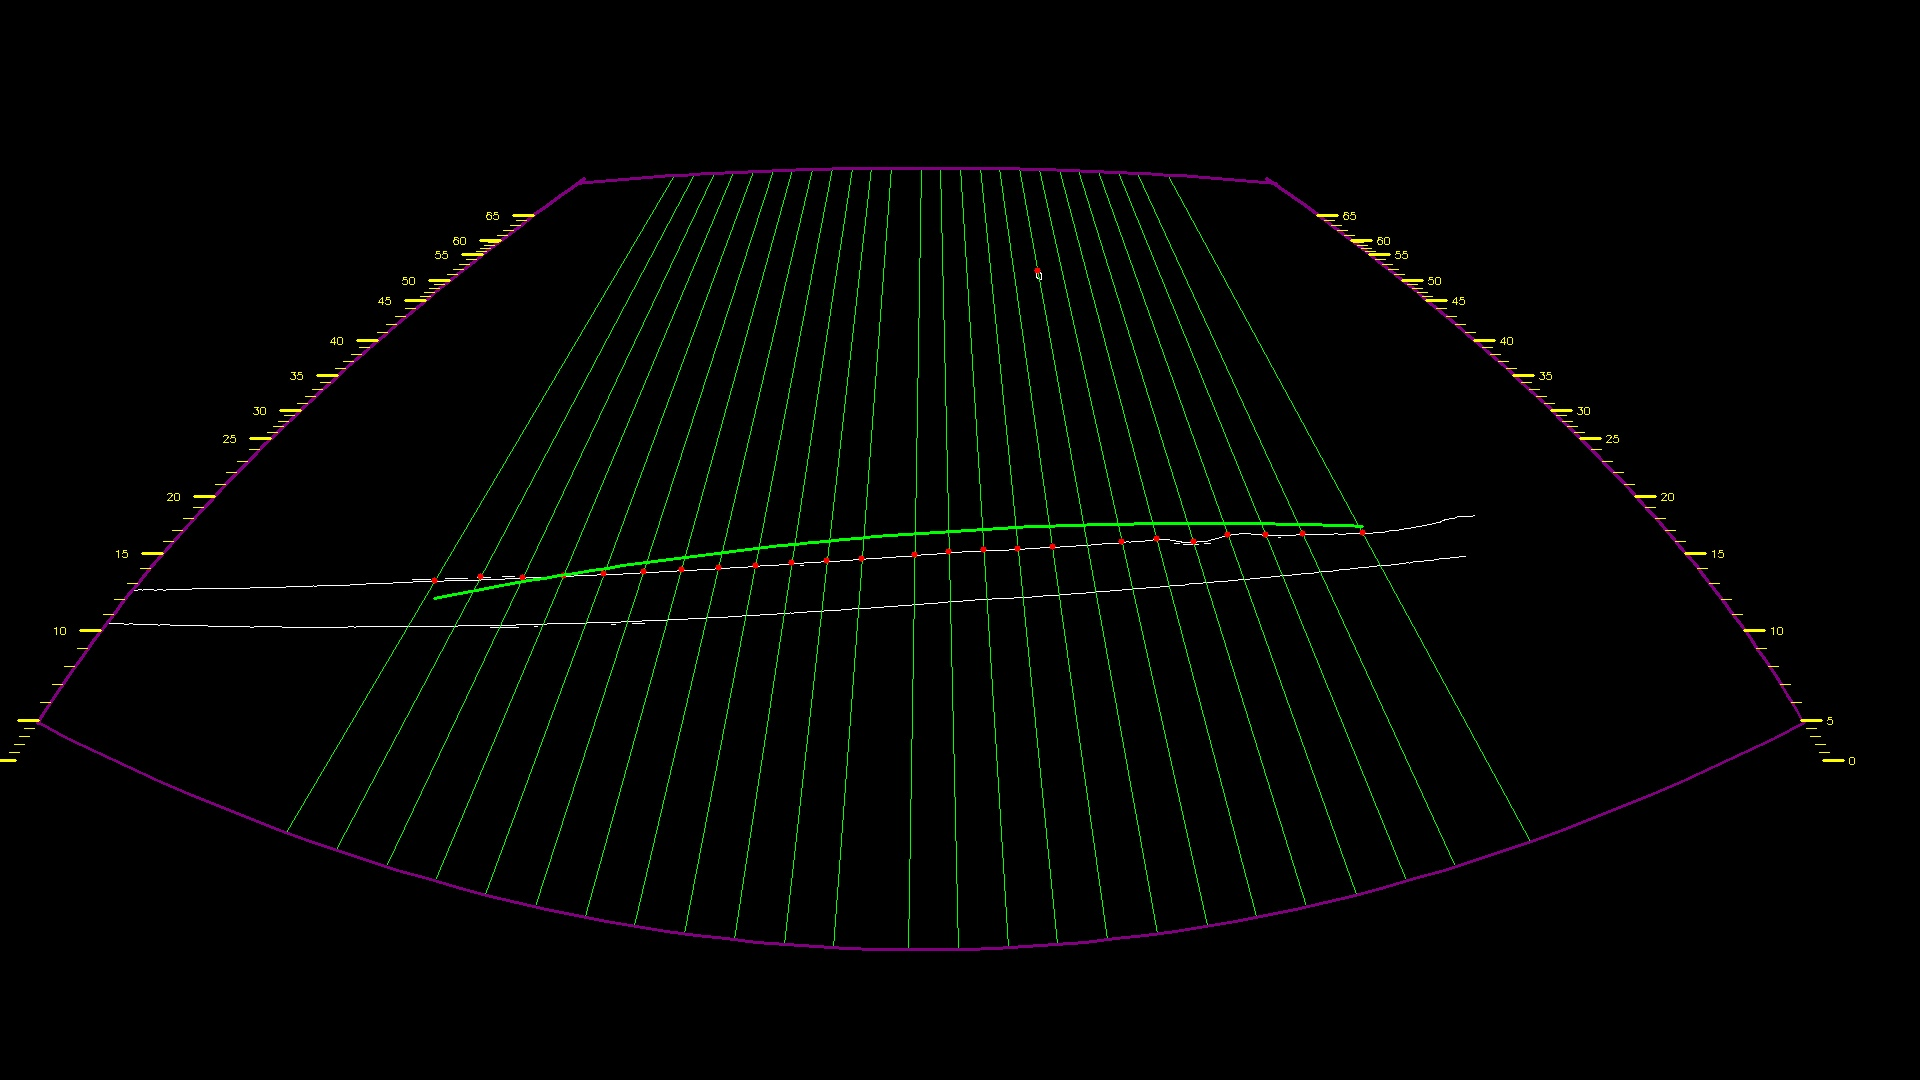
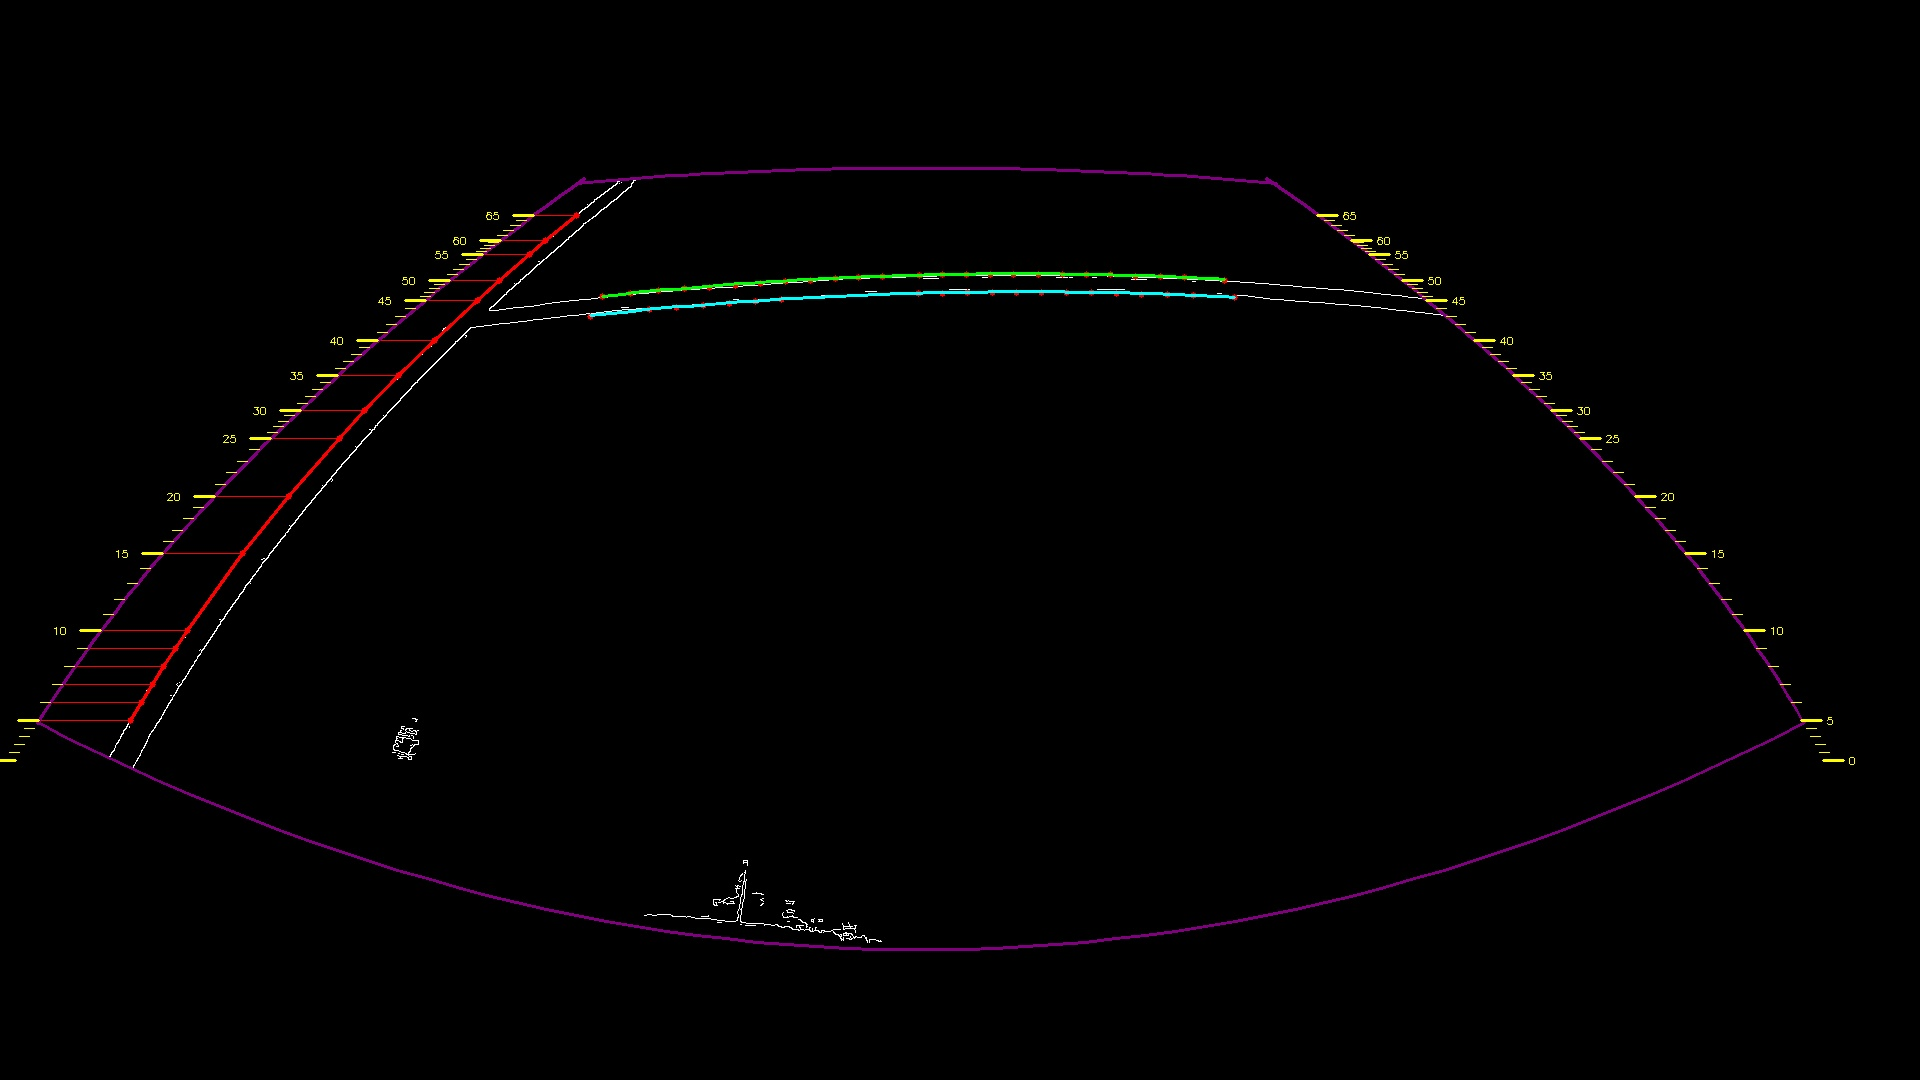
Edited camera to 02

diff --git a/Linux/solarBot/captureImg.py b/Linux/solarBot/captureImg.py
@@ -4,7 +4,7 @@ import time
 import threading
 import cv2
 
-CAMERA_SOURCE = "/dev/video0"
+CAMERA_SOURCE = "/dev/video2"
 DIR_PATH = "imgForward"
 
 # Desired resolution
